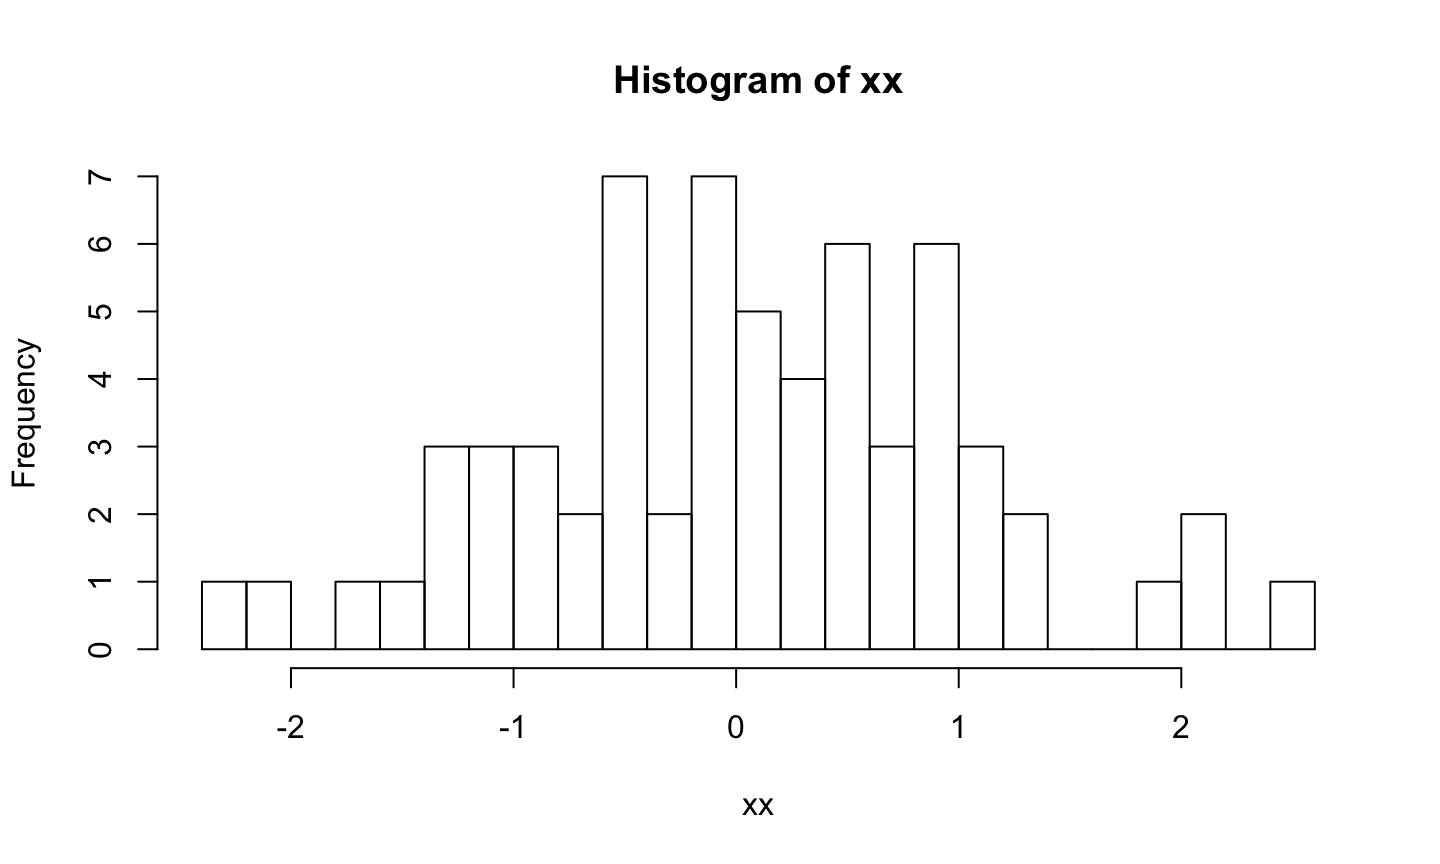
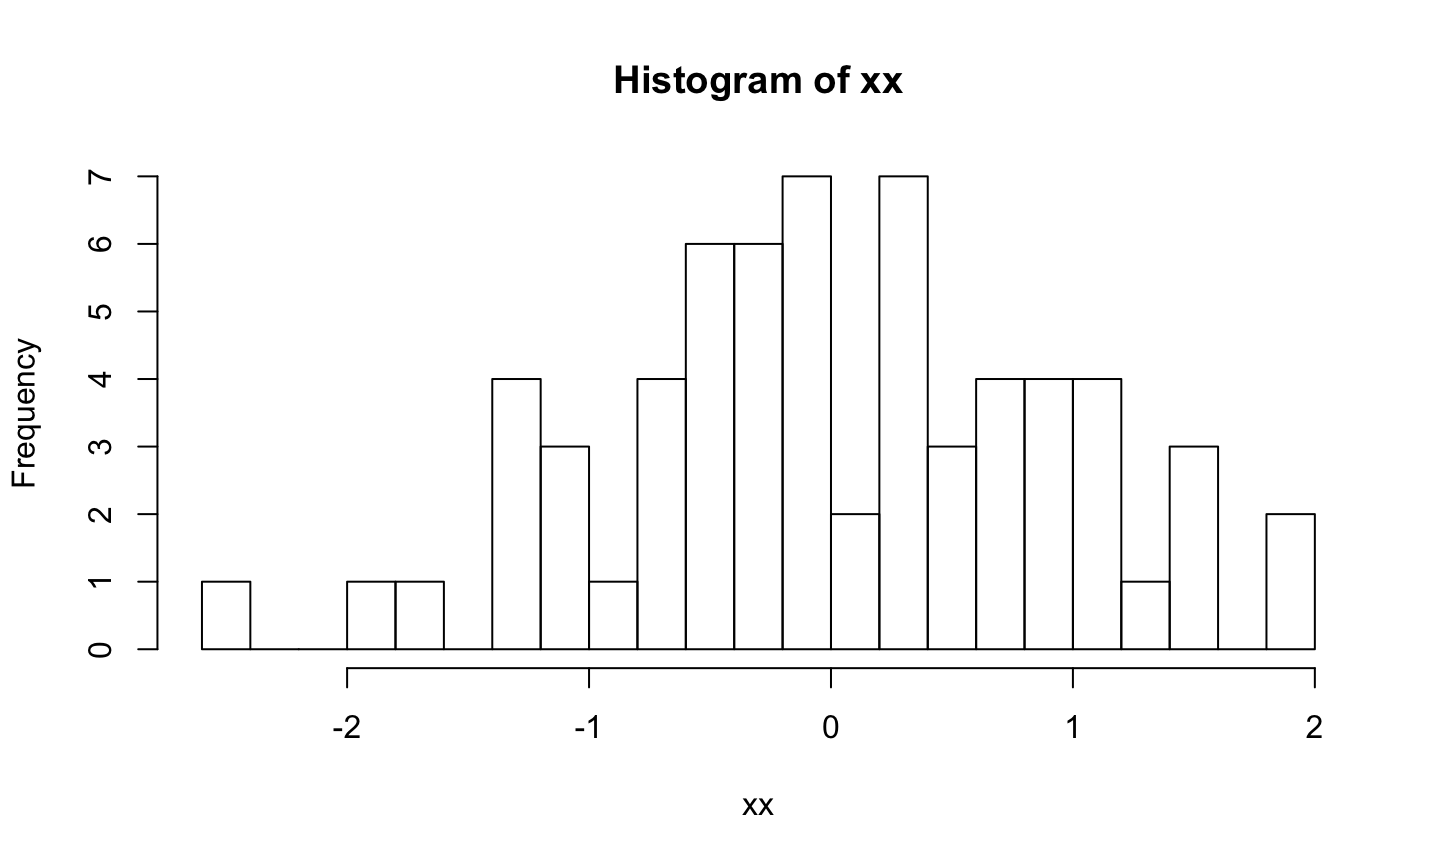
added top.R

diff --git a/index.html b/index.html
@@ -194,12 +194,11 @@ Sentiment:???</pre>
 <li>This will use <a href='https://github.com/' title=''>GitHub</a> for packages, sign up for an account if you don’t have one.</li>
 </ul>
 
-<p>Use RStudio and the <code>devtools</code> and <code>usethis</code> packages. It’s easier.</p>
+<p>We’ll be using <code>devtools</code>, <code>usethis</code>, and others, install:</p>
 
-<pre class = 'prettyprint lang-r'>install.packages(&quot;devtools&quot;)
-install.packages(&quot;usethis&quot;)</pre>
+<pre class = 'prettyprint lang-r'>install.packages(c(&quot;devtools&quot;, &quot;usethis&quot;))</pre>
 
-<p>In RStudio, File -&gt; New Project -&gt; New Directory -&gt; R Package using devtools (scroll down). Let’s call it <code>enar2020</code>.</p>
+<p>In RStudio, File → New Project → New Directory → R Package using devtools (scroll down). Let’s call it <code>enar2020</code>.</p>
 
 </article></slide><slide class=""><hgroup><h2>Trying our first build</h2></hgroup><article  id="trying-our-first-build">
 
@@ -221,9 +220,7 @@ install.packages(&quot;usethis&quot;)</pre>
 
 </article></slide><slide class=""><hgroup><h2>Setting Up: Documentation</h2></hgroup><article  id="setting-up-documentation">
 
-<p>In RStudio, click <code>Build → Configure Build Tools → Generate Documentation with Roxygen</code>. If that is gray, install <code>roxygen2</code>.</p>
-
-<pre class = 'prettyprint lang-r'>install.packages(&quot;roxygen2&quot;)</pre>
+<p>In RStudio, click <code>Build → Configure Build Tools → Generate Documentation with Roxygen</code>. If that is gray, install <code>roxygen2</code> (<code>install.packages(&quot;roxygen2&quot;)</code>) .</p>
 
 <p><img src="r_packages_figures/roxygen.png" style="width: 45%; display: block; margin: auto;"></p>
 
@@ -257,6 +254,8 @@ install.packages(&quot;usethis&quot;)</pre>
 
 <pre class = 'prettyprint lang-yaml'>Title: How to Analyze Data and Images</pre>
 
+<pre class = 'prettyprint lang-yaml'>Title: Analyze Data from &#39;ENAR&#39; </pre>
+
 <ul>
 <li>do <strong>not</strong> start with R package or Package</li>
 </ul>
@@ -269,11 +268,11 @@ install.packages(&quot;usethis&quot;)</pre>
 
 <p>Use DOIs if you can (<code>&lt;doi...&gt;</code>). If you go too long on a line, indent it with 4 spaces and go to the next.</p>
 
-<ul>
-<li>Look at some of favorite package descriptions</li>
-</ul>
+<pre class = 'prettyprint lang-yaml'>Description: Provides tools for &#39;ENAR&#39; 2020 meeting
+    &lt;https://enar.org/meetings/spring2020/&gt;.  Provides slides for R 
+    package development.</pre>
 
-</article></slide><slide class=""><hgroup><h2>DESCRIPTION: additional fields</h2></hgroup><article  class="build" id="description-additional-fields">
+</article></slide><slide class=""><hgroup><h2>DESCRIPTION: additional fields</h2></hgroup><article  id="description-additional-fields">
 
 <ul>
 <li><strong>Imports:</strong> package1, package2
@@ -281,11 +280,11 @@ install.packages(&quot;usethis&quot;)</pre>
 <ul>
 <li>packages with functions we need <strong>in code</strong></li>
 </ul></li>
-<li><strong>Depends:</strong> package3, package5
+<li><strong>Depends:</strong> <code>dplyr</code>, <code>enar2020</code>
 
 <ul>
 <li><strong>ALL</strong> functions loaded from package, but <strong>loaded in user library</strong> before your package</li>
-<li>Similar to <code>library(package3); library(yourpackage)</code> - <em>not recommended</em></li>
+<li>Similar to <code>library(dplyr); library(</code> <code>enar2020</code> <code>)</code> - <em>not recommended</em></li>
 </ul></li>
 <li><strong>Suggests:</strong> package4, package6: used in <strong>examples</strong> or <strong>vignettes</strong></li>
 </ul>
@@ -294,7 +293,7 @@ install.packages(&quot;usethis&quot;)</pre>
 
 <p>In the RStudio build, it may add something like:</p>
 
-<pre class = 'prettyprint lang-bash'>Depends: R (&gt;= 3.5.3)</pre>
+<pre class = 'prettyprint lang-bash'>Depends: R (&gt;= 3.6.2)</pre>
 
 <p>This is not great because anyone with a lower <code>R</code> version (like <code>3.4</code>) cannot install your package. Unless you need the newest <code>R</code> functionality, delete this line.</p>
 
@@ -324,7 +323,7 @@ install.packages(&quot;usethis&quot;)</pre>
 
 <div id="right_col">
 
-<img src="figure/highlander.gif" style="width:120%; margin: auto;" alt="flow">
+<img src="figure/highlander.gif" style="width:110%; margin: auto;" alt="flow">
 
 <div>
 
@@ -337,15 +336,10 @@ install.packages(&quot;usethis&quot;)</pre>
 
 </article></slide><slide class=""><hgroup><h2>License</h2></hgroup><article  id="license">
 
-<p>I use <code>License: GPL-3</code> or <code>GPL-2</code>.</p>
+<p>I use <code>License: GPL-3</code> or <code>GPL-2</code> See <a href='https://www.r-project.org/Licenses/' title=''>https://www.r-project.org/Licenses/</a>.</p>
 
-<ul>
-<li>For GPL-3:</li>
-</ul>
-
-<pre class = 'prettyprint lang-r'>usethis::use_gpl3_license()</pre>
-
-<p><a href='https://www.r-project.org/Licenses/' title=''>https://www.r-project.org/Licenses/</a></p>
+<pre class = 'prettyprint lang-r'>usethis::use_gpl3_license()
+usethis::use_mit_license()</pre>
 
 <p><a href='https://kbroman.org/pkg_primer/pages/licenses.html' title=''>https://kbroman.org/pkg_primer/pages/licenses.html</a></p>
 
@@ -353,7 +347,7 @@ install.packages(&quot;usethis&quot;)</pre>
 
 </article></slide><slide class=""><hgroup><h2>Roxygen2</h2></hgroup><article  id="roxygen2">
 
-<p>Roxygen allows for functions and documentation in the same file. Let’s make a function:</p>
+<p>Roxygen allows for functions and documentation in the same file. Copy/Paste or <a href='./top.R' title=''>Downlaod here</a>.</p>
 
 <pre class = 'prettyprint lang-r'>top = function(x, n) {
   xx = x[1:n, 1:n]
@@ -629,26 +623,26 @@ top = function(x, n, ...) {
 
 <pre class = 'prettyprint lang-r'>top(matrix(rnorm(100), nrow = 10), n = 8, breaks = 20)</pre>
 
-<p><img src="index_files/figure-html/unnamed-chunk-22-1.png" width="720" /></p>
+<p><img src="index_files/figure-html/unnamed-chunk-21-1.png" width="720" /></p>
 
-<pre >            [,1]       [,2]       [,3]       [,4]       [,5]        [,6]
-[1,] -1.75673291  0.2443928  0.6253147 -0.5362452  1.8500967 -0.42196775
-[2,]  0.19614515 -0.1069800  2.5443131  0.4890368  0.8142388 -2.12629854
-[3,] -0.02367791 -1.0768249  0.3134811 -0.6421259 -0.8148540 -0.47561875
-[4,]  1.02625940  1.2452868  0.8509034  0.8336965  0.5617518 -0.90419435
-[5,]  0.51061887 -1.2992581  2.0231851 -0.3979581 -0.4837146  2.16560613
-[6,]  1.26152622 -0.7745933  0.9851347  0.1536890  0.3270455  0.08527583
-[7,] -0.56192852 -1.2280658 -1.0920070 -1.5653791 -1.0441837 -0.15208071
-[8,]  0.64330784  1.1158436  1.0535093 -0.4892987  0.1877092 -0.51703558
-             [,7]        [,8]
-[1,] -2.287744642 -0.09125479
-[2,]  0.445466083  0.41883771
-[3,] -1.398002811 -0.30441257
-[4,]  0.226139377 -0.18914525
-[5,]  0.637431529  0.16593924
-[6,]  0.525298996  0.86113569
-[7,] -0.002468162 -0.85960080
-[8,] -0.070624600  0.98552815</pre>
+<pre >           [,1]       [,2]       [,3]       [,4]        [,5]       [,6]
+[1,]  0.2192292  0.9406347  1.5206589 -0.2999760  0.80144886  0.1289643
+[2,]  1.7079653  0.4376512  0.7530701  1.2644699  0.93196859  1.9070886
+[3,] -1.0384861 -0.9522370 -0.9308497  1.5941830 -0.71431062  1.4433517
+[4,]  0.3610628 -0.5285194  1.3886855 -1.8142617  0.05181826  0.3150678
+[5,]  1.5174793  0.1528741 -0.3094510  0.4758910  1.08231808 -1.3044199
+[6,]  0.3912001  0.3133300 -0.7130574 -0.4324381 -1.42667867 -1.7189113
+[7,] -1.1065394  0.9858787  1.0235840  0.1158156 -1.91562088  0.7533922
+[8,] -0.4599813 -0.7958871  0.9841577  0.9617492 -1.89092973 -1.8355250
+            [,7]       [,8]
+[1,]  0.19661864  0.1383780
+[2,] -0.09663403 -0.8391125
+[3,] -0.46054871 -2.4922486
+[4,]  0.44094616 -0.5330493
+[5,] -0.14247656 -0.3285502
+[6,] -0.56807240 -0.7586985
+[7,]  0.72022027 -0.8201074
+[8,]  0.56190005  0.1649808</pre>
 
 </article></slide><slide class=""><hgroup><h2>Picking one option and Checking for input</h2></hgroup><article  id="picking-one-option-and-checking-for-input">
 
@@ -673,15 +667,15 @@ top = function(x, n, ...) {
 
 <pre >[1] &quot;mean&quot;</pre>
 
-<p><img src="index_files/figure-html/unnamed-chunk-24-1.png" width="720" /></p>
+<p><img src="index_files/figure-html/unnamed-chunk-23-1.png" width="720" /></p>
 
-<pre >           [,1]       [,2]       [,3]       [,4]
-[1,]  0.1336601  1.2157929  0.2525312 -1.5585462
-[2,]  0.2697537  0.6144354 -0.6957254  0.9068386
-[3,]  0.0706795  1.1980421 -0.1779556 -1.4861509
-[4,] -0.2922135 -0.9712526  0.3759598 -3.1457544</pre>
+<pre >           [,1]      [,2]        [,3]       [,4]
+[1,]  1.9010668 1.1673998 0.048793464  0.3971798
+[2,] -1.4016426 0.2030129 0.737208974 -0.5524079
+[3,]  0.6350658 1.2976467 0.584080456  0.2464264
+[4,]  0.1024248 0.6808001 0.004561645  2.6169431</pre>
 
-<pre >[1] -0.2056191</pre>
+<pre >[1] 0.541785</pre>
 
 </article></slide><slide class=""><hgroup><h2>&ldquo;Printing&rdquo; Output and Checking for Input</h2></hgroup><article  id="printing-output-and-checking-for-input">
 
@@ -720,12 +714,13 @@ top = function(x, n, ...) {
 <p>To use <code>testthat</code>, run <code>usethis::use_testthat()</code>. All test files must be in <code>testthat/tests/</code> and must start with the word <code>test</code>.</p>
 
 <pre class = 'prettyprint lang-r'>testthat::test_that(&quot;Description of test&quot;, { 
-# code for test
-r = 3.5523334
-df = data.frame(r = r)
-testthat::expect_equal(r, 3.5523334)
-testthat::expect_true(r &gt; 3)
-testthat::expect_is(my_df, &quot;data.frame&quot;)
+  # code for test
+  r = 3.5523334
+  df = data.frame(r = r)
+  testthat::expect_equal(r, 3.5523334)
+  testthat::expect_true(r &gt; 3)
+  testthat::expect_error(r + &quot;hey&quot;)
+  testthat::expect_is(df, &quot;data.frame&quot;)
 })</pre>
 
 </article></slide><slide class="segue dark nobackground level1"><hgroup class = 'auto-fadein'><h2>Good Rule of Thumb: Any issue created/bug found gets a test</h2></hgroup><article  id="good-rule-of-thumb-any-issue-createdbug-found-gets-a-test">
@@ -756,7 +751,7 @@ vignette: &gt;
   %\VignetteEncoding{UTF-8}
 ---</pre>
 
-</article></slide><slide class="segue dark nobackground level1"><hgroup class = 'auto-fadein'><h2>95% of what you will be doing is now covered. Mostly it will be documenting and examples</h2></hgroup><article  id="of-what-you-will-be-doing-is-now-covered.-mostly-it-will-be-documenting-and-examples">
+</article></slide><slide class="segue dark nobackground level1"><hgroup class = 'auto-fadein'><h2>95% of what you will be need. Mostly it will be documenting and examples</h2></hgroup><article  id="of-what-you-will-be-need.-mostly-it-will-be-documenting-and-examples">
 
 </article></slide><slide class=""><hgroup><h2>Creating a README</h2></hgroup><article  id="creating-a-readme">
 
